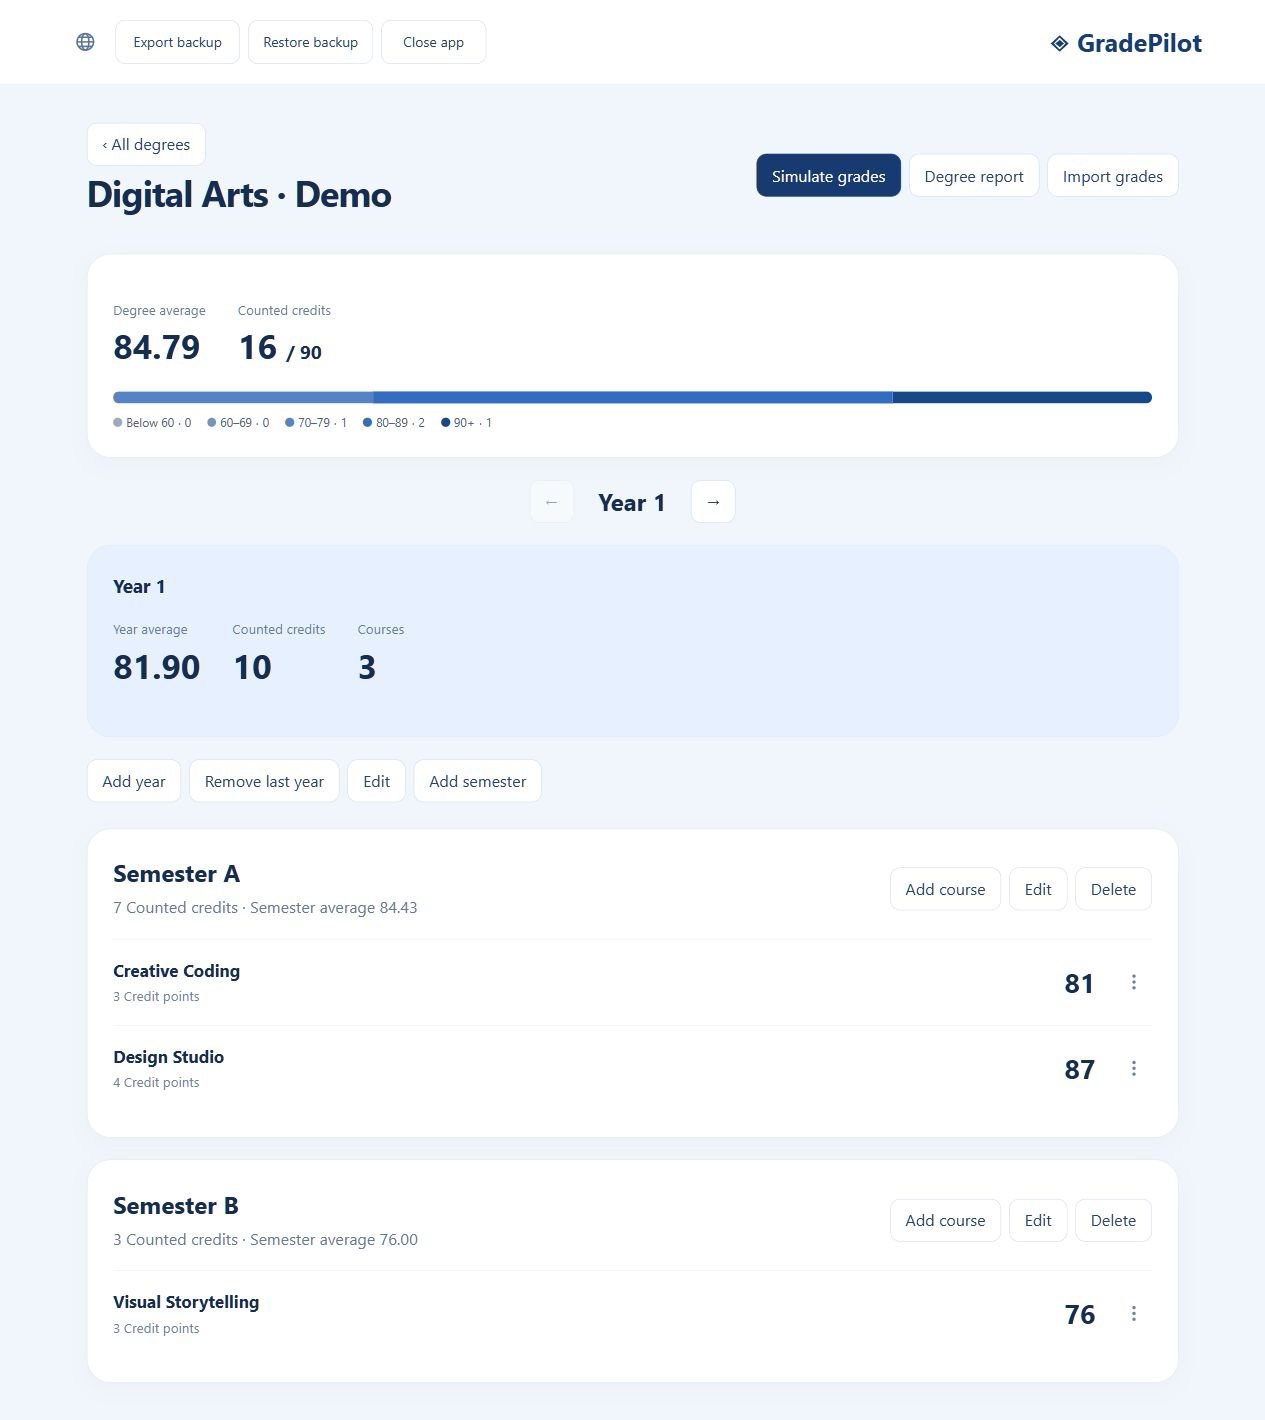
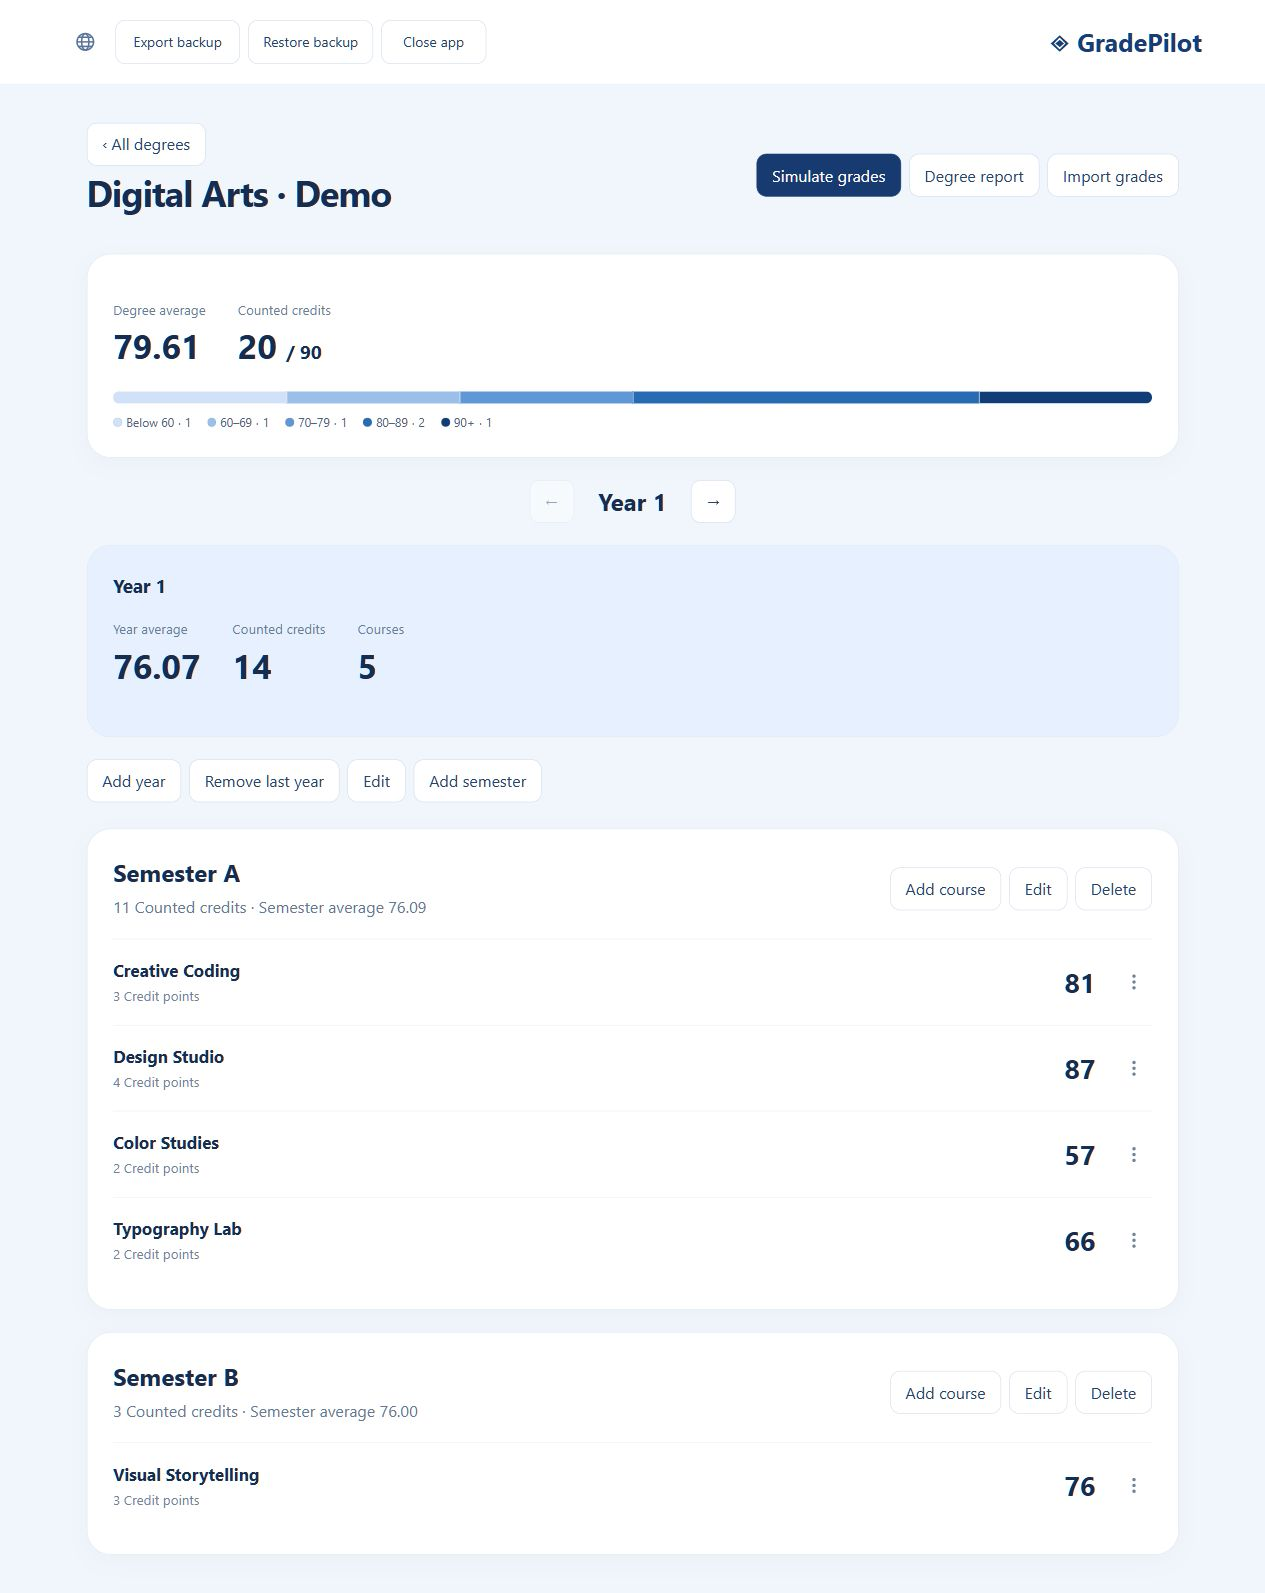
Distinguish blue grade ranges and hide unused import fallbacks

diff --git a/src/DegreeGradeCalculator/wwwroot/text-import.js b/src/DegreeGradeCalculator/wwwroot/text-import.js
@@ -234,7 +234,8 @@ function calendarMappingPanel() {
 }
 function fallbackDestinationPanel() {
   const missing = importDraft.rows.filter(row => row.included && (!row.year || !row.semester)).length;
-  return `<details class="fallback-destinations" ${missing ? "open" : ""}><summary>${t("fallbackTitle")}${missing ? ` · ${missing} ${t("courses")}` : ""}</summary><p>${t(missing ? "fallbackHelp" : "fallbackUnused")}</p><div class="fallback-fields">${label(t("defaultYear"), `<select id="defaultYear">${yearOptions(importDraft.defaultYear, false)}</select>`)}${label(t("defaultSemester"), `<select id="defaultSemester">${semesterOptions(importDraft.defaultYear, importDraft.defaultSemester, false)}</select>`)}</div></details>`;
+  if (!missing) return "";
+  return `<details class="fallback-destinations" open><summary>${t("fallbackTitle")}${missing ? ` · ${missing} ${t("courses")}` : ""}</summary><p>${t(missing ? "fallbackHelp" : "fallbackUnused")}</p><div class="fallback-fields">${label(t("defaultYear"), `<select id="defaultYear">${yearOptions(importDraft.defaultYear, false)}</select>`)}${label(t("defaultSemester"), `<select id="defaultSemester">${semesterOptions(importDraft.defaultYear, importDraft.defaultSemester, false)}</select>`)}</div></details>`;
 }
 function groupedReviewCards() {
   const years = new Map();

diff --git a/src/DegreeGradeCalculator/wwwroot/app.js b/src/DegreeGradeCalculator/wwwroot/app.js
@@ -213,7 +213,7 @@ const avg = (n) => {
       String(rounded / 100n) + "." + String(rounded % 100n).padStart(2, "0")
     );
   },
-  colors = ["#9baac0", "#7793bd", "#5583c5", "#346cc0", "#174988"];
+  colors = ["#d1e2f8", "#9bbfe9", "#6097d6", "#286bb5", "#103d78"];
 function distribution(s) {
   let total = s.bins.reduce((a, b) => a + b, 0);
   if (!total) return `<p class="distribution-empty">${esc(t("noGradedCourses"))}</p>`;

diff --git a/src/DegreeGradeCalculator/wwwroot/style.css b/src/DegreeGradeCalculator/wwwroot/style.css
@@ -567,3 +567,6 @@ header nav button {
 }
 .legend span { display: inline-flex; align-items: center; gap: 4px; }
 .legend .dot { margin-inline-end: 0; flex-shrink: 0; }
+.distribution span + span { box-shadow: inset 1px 0 0 #ffffffb3; }
+.simulation .legend { color: #e1ebfb; }
+.legend .dot { border: 1px solid #7893b140; }

diff --git a/README.md b/README.md
@@ -16,7 +16,7 @@ Open `release/GradePilot/DegreeGradeCalculator.exe` by double-clicking. Keep the
 - Horizontal year navigation with arrows or pointer/touch swipes; vertically stacked semesters. New years start with Semester A and B; add summer or custom semesters as needed.
 - Course dialogs with decimal credits, optional direct grades, or weighted components. Courses can move between semesters and years.
 - Course Edit/Delete actions are grouped in a compact three-dot menu.
-- Clearly labeled degree, year, and semester averages, graded-credit progress, reports, and five-category grade distribution.
+- Clearly labeled degree, year, and semester averages, graded-credit progress, reports, and five-category grade distribution with distinct light-to-dark blue shades and matching legend markers.
 - Temporary simulation with exact grade entry, ±1/±5, reset, and component-level controls in the normal degree layout.
 - Hebrew RTL and English LTR, with a persisted language choice.
 - JSON export and validated restore; confirmation for restore and deletion.
@@ -38,7 +38,7 @@ The database is `%LOCALAPPDATA%\DegreeGradeCalculator\grades.db`. Replacing the 
 
 ## Import grades from text
 
-Choose **Import grades** on the dashboard or degree page. Paste copied text and select **Parse text**, then review course names, credits, grades, years, and semesters in editable cards grouped by destination year and semester. Changing a destination moves the card into its matching group. Choose a target degree. Each course keeps its own detected year and semester. Fallback year/semester controls live under **Courses with missing year or semester** and only fill missing destinations; they never override detected ones. Exclude unwanted rows, fix highlighted fields, and confirm **Import courses** to save. Parsing and preview never write to the database.
+Choose **Import grades** on the dashboard or degree page. Paste copied text and select **Parse text**, then review course names, credits, grades, years, and semesters in editable cards grouped by destination year and semester. Changing a destination moves the card into its matching group. Choose a target degree. Each course keeps its own detected year and semester. Fallback year/semester controls appear under **Courses with missing year or semester** only when an included course needs them. The section is hidden when all courses are matched; fallback values never override detected destinations. Exclude unwanted rows, fix highlighted fields, and confirm **Import courses** to save. Parsing and preview never write to the database.
 
 Supported formats include pipes (`Creative Coding | 3 | 81`), CSV including quoted names, spreadsheet tabs, semicolons, spaced columns, `Creative Coding 3 credits 81`, and `Creative Coding - 3 - 81`. English/Hebrew headers and year/semester names are recognized. Decimal credits and blank grades are supported. Decimal commas work in non-comma-separated cells or quoted CSV cells.
 

diff --git a/VERIFICATION.md b/VERIFICATION.md
@@ -35,3 +35,5 @@ Import destination controls verified: target degree stands alone; fallback year 
 Import grade-mode toggle verified in the browser: Passed to numeric 86 to Failed to numeric restores 86, then back to binary restores Failed. Another numeric row toggled to binary and back retains 94; neighboring grade 73 and all destinations remain unchanged. Preview and final confirmation reflect only active grading values. English import screenshots refreshed.
 
 Average labels verified in English and Hebrew: degree summary uses Degree average / ממוצע תואר; year summary uses Year average / ממוצע שנתי; semester headers use Semester average / ממוצע סמסטר. Simulation uses the same scope labels. Affected English screenshots recaptured.
+
+Grade distribution uses five widely spaced blue shades, from pale blue below 60 to navy at 90+, with thin segment separators and matching legend dots. Simulation legend text has improved contrast. Browser verification displayed all five categories using fictional courses. Missing-destination controls are absent for fully matched courses and reappear when a course destination is cleared. All affected English screenshots refreshed.
